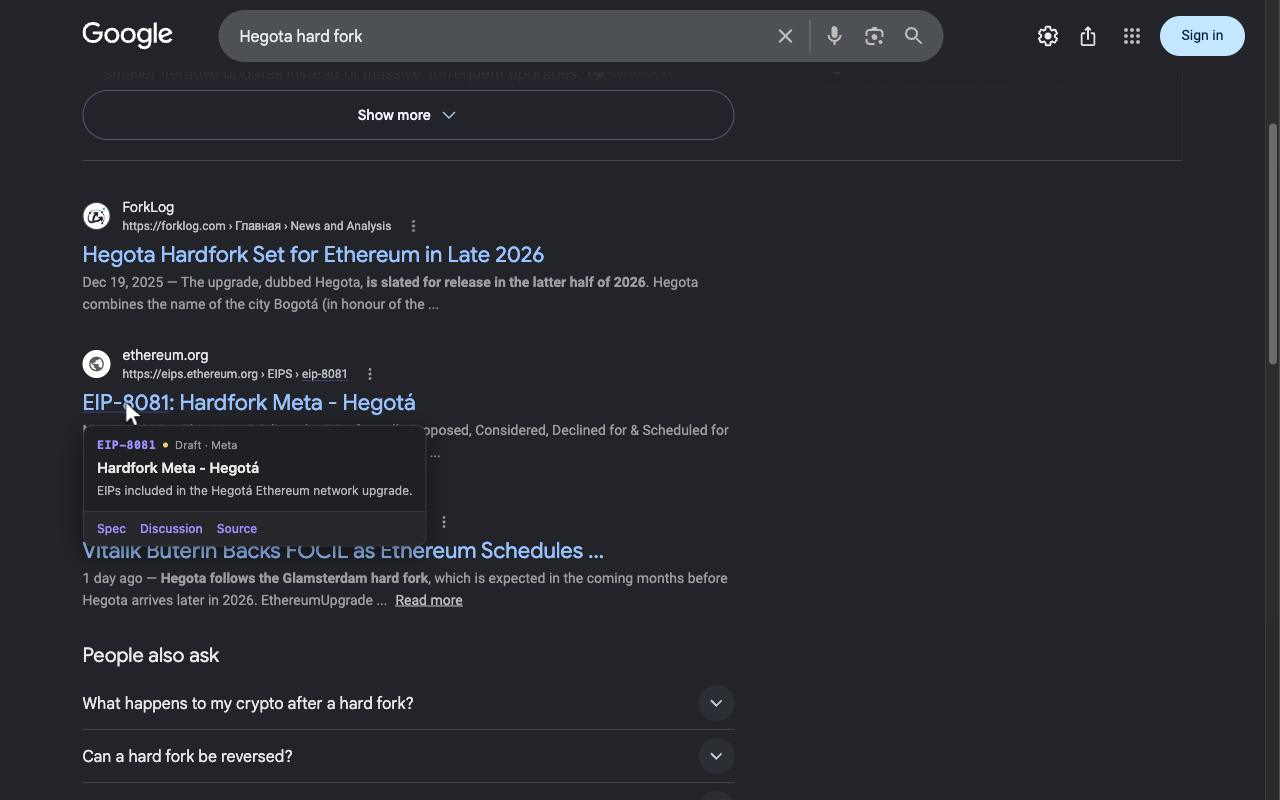
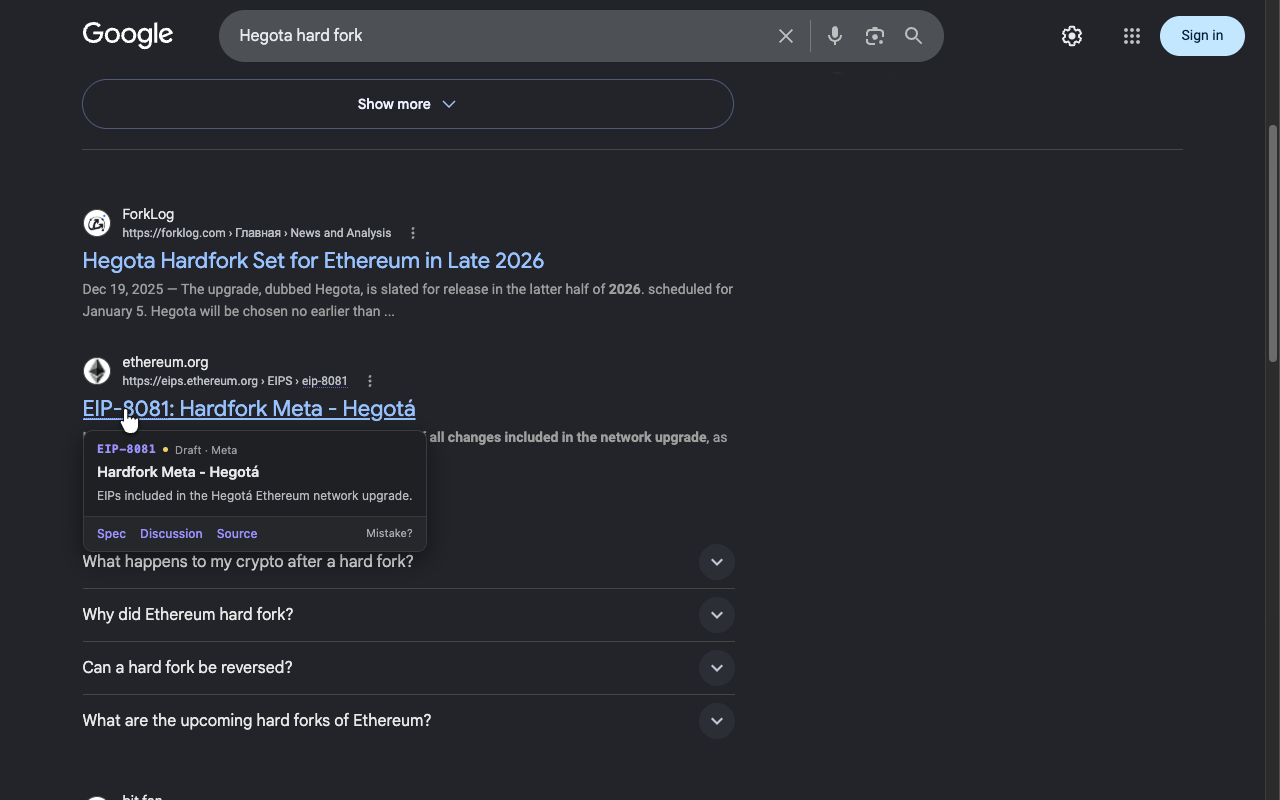
Refresh store listing copy and screenshots for the 0.2 features

diff --git a/store/listing.md b/store/listing.md
@@ -17,7 +17,7 @@ Hover any EIP/ERC reference for its title, status, and links. Offline dataset, z
 
 ## 2. Detailed description
 
-**Character count: 1506 / 16000**
+**Character count: 1831 / 16000**
 
 ```
 EIPeek finds EIP and ERC references anywhere on a web page — EIP-7702, ERC-20, EIP 3074, even bare numbers like 7702 (if you turn that on) — and gives you a hover card with the all the details you need instead of opening a new tab and search!
@@ -27,12 +27,14 @@ Hover on "EIP-7702" on a GitHub issue, an X thread, or a pasted-in Discord messa
 FEATURES
 
 - Covers all EIPs and ERCs, including hundreds of unmerged proposals that exist only as open pull requests — the ones people are actively discussing before a number is even final.
+- Shows mainnet upgrade membership right in the tooltip header — EIP-1559 carries London, EIP-7702 carries Pectra — linked to the hardfork's Meta EIP, with upgrades that are only scheduled so far marked as such.
 - Doesn't touch the page. Nothing is inserted or wrapped, so it can't break the site underneath it.
 - When a number is contested, you see every PR that claims it — not just one.
 - Renumbered proposals still resolve. Hover the old number and you get the current one.
 - Bare-number matching (7702, no "EIP-" needed) is available as an opt-in, off by default so a page saying "back in 2020" doesn't light up if you don't want it to.
 - Select any number on a page to look it up on demand, prefix or not.
 - Per-site blocking, an adjustable per-page match limit, and a debug mode for when something doesn't resolve.
+- Spotted a wrong or missing entry? The "Mistake?" link in every tooltip opens a prefilled GitHub feedback form.
 - No network requests and no tabs permission. The whole dataset ships inside the extension, so nothing about the pages you read ever leaves your browser.
 ```
 
